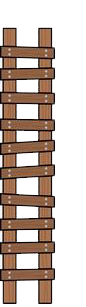
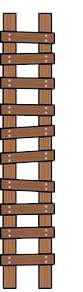
images

diff --git a/css/styles.css b/css/styles.css
@@ -150,7 +150,7 @@ audio{
     right: 28px;
       width: 70px;
       height: 120px;
-      background-image: url(../images/greensnake.png);
+      background-image: url(../images/greensnake2.png);
       background-position: center;
       background-repeat: no-repeat;
       background-size: cover;
@@ -162,7 +162,7 @@ audio{
     right: 40px;
       width: 150px;
       height: 230px;
-      background-image: url(../images/purplesnake.png);
+      background-image: url(../images/purplesnake2.png);
       background-position: center;
       background-repeat: no-repeat;
       background-size: cover;
@@ -173,7 +173,7 @@ audio{
     left:60px;
       width: 70px;
       height: 250px;
-      background-image: url(../images/greensnakelong.png);
+      background-image: url(../images/greensnakelong2.png);
       background-position: center;
       background-repeat: no-repeat;
       background-size: cover;
@@ -187,7 +187,7 @@ audio{
     right: 210px;
       width: 80px;
       height: 200px;
-      background-image: url(../images/pinksnake.png);
+      background-image: url(../images/pinksnake2.png);
       background-position: center;
       background-repeat: no-repeat;
       background-size: cover;
@@ -199,7 +199,7 @@ audio{
     right: 28px;
       width: 70px;
       height: 120px;
-      background-image: url(../images/greensnake.png);
+      background-image: url(../images/greensnake2.png);
       background-position: center;
       background-repeat: no-repeat;
       background-size: cover;
@@ -214,7 +214,7 @@ audio{
     right: 200px;
       width: 40px;
       height: 100px;
-      background-image: url(../images/yellowladder.png);
+      background-image: url(../images/yellowladder2.png);
       background-position: center;
       background-repeat: no-repeat;
       background-size: cover;
@@ -226,7 +226,7 @@ audio{
     left: 184px;
       width: 40px;
       height: 100px;
-      background-image: url(../images/greenladder.png);
+      background-image: url(../images/greenladder2.png);
       background-position: center;
       background-repeat: no-repeat;
       background-size: cover;
@@ -239,7 +239,7 @@ audio{
     right: 100px;
       width: 40px;
       height: 140px;
-      background-image: url(../images/brownladder.png);
+      background-image: url(../images/brownladder2.png);
       background-position: center;
       background-repeat: no-repeat;
       background-size: cover;
@@ -253,7 +253,7 @@ audio{
     left: 10px;
       width: 40px;
       height: 100px;
-      background-image: url(../images/yellowladder.png);
+      background-image: url(../images/yellowladder2.png);
       background-position: center;
       background-repeat: no-repeat;
       background-size: cover;
@@ -265,7 +265,7 @@ audio{
     left: 86px;
       width: 45px;
       height: 160px;
-      background-image: url(../images/brownladder.png);
+      background-image: url(../images/brownladder2.png);
       background-position: center;
       background-repeat: no-repeat;
       background-size: cover;
